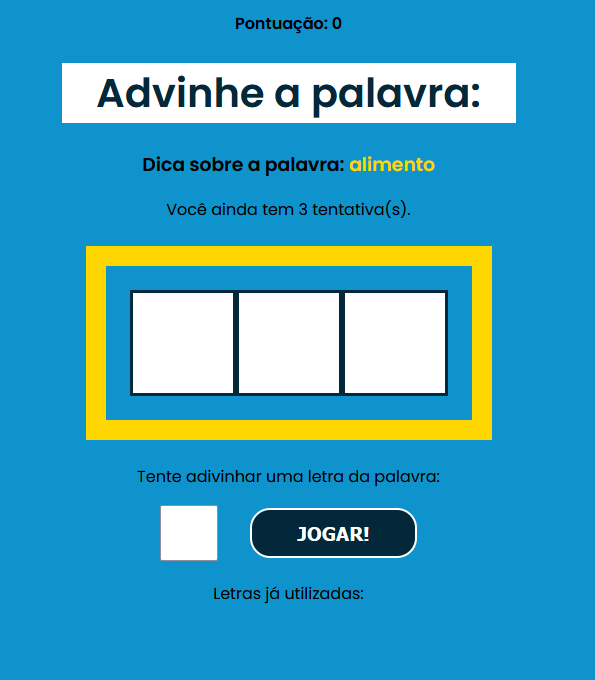
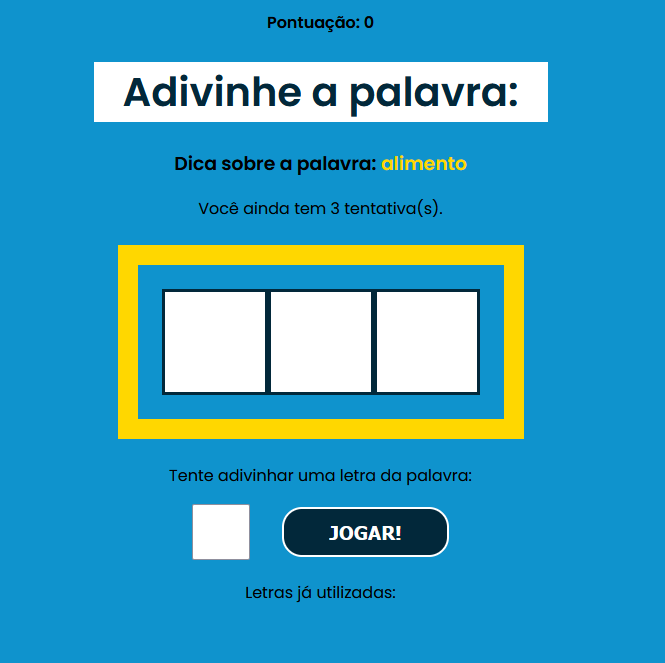
Fix word

diff --git a/06-Secret-Word/secretword/src/components/Game.jsx b/06-Secret-Word/secretword/src/components/Game.jsx
@@ -4,7 +4,7 @@ const Game = ({verifyLetter, pickedWord, pickedCategory, letters, guessedLetters
   return (
     <div className="game">
       <p className="points"><span>Pontuação: {score}</span></p>
-      <h1>Advinhe a palavra:</h1>
+      <h1>Adivinhe a palavra:</h1>
       <h3 className="tip">Dica sobre a palavra: <span>{pickedCategory}</span></h3>
       <p>Você ainda tem {guesses} tentativa(s).</p>
       <div className="wordContainer">
